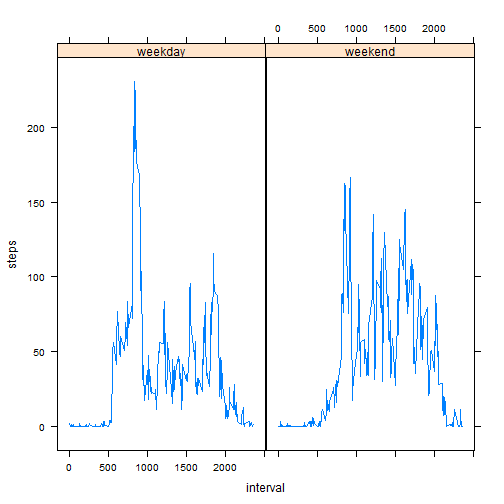
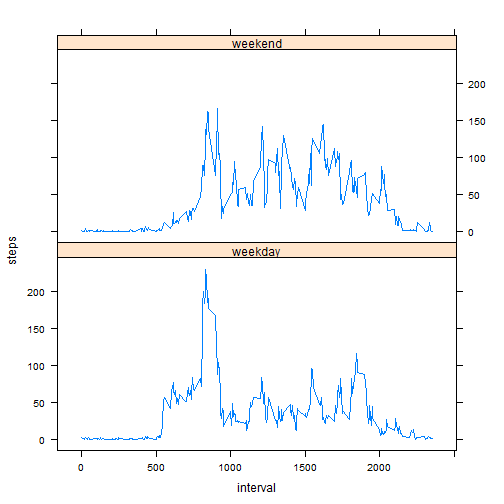
vertical panels

diff --git a/PA1_template.html b/PA1_template.html
@@ -274,10 +274,11 @@ steps_per_interval2 = aggregate(data2$steps, by = list(data$interval, data2$week
     mean, na.rm = TRUE)
 names(steps_per_interval2) = c(&quot;interval&quot;, &quot;weekday&quot;, &quot;steps&quot;)
 library(lattice)
-xyplot(steps ~ interval | weekday, steps_per_interval2, type = &quot;l&quot;)
+xyplot(steps ~ interval | weekday, steps_per_interval2, type = &quot;l&quot;, layout = c(1, 
+    2))
 </code></pre>
 
[2 lines of base64/hex data omitted]
 
 </body>
 

diff --git a/PA1_template.md b/PA1_template.md
@@ -111,7 +111,8 @@ steps_per_interval2 = aggregate(data2$steps, by = list(data$interval, data2$week
     mean, na.rm = TRUE)
 names(steps_per_interval2) = c("interval", "weekday", "steps")
 library(lattice)
-xyplot(steps ~ interval | weekday, steps_per_interval2, type = "l")
+xyplot(steps ~ interval | weekday, steps_per_interval2, type = "l", layout = c(1, 
+    2))
 ```
 
 ![plot of chunk unnamed-chunk-5](figure/unnamed-chunk-5.png) 
